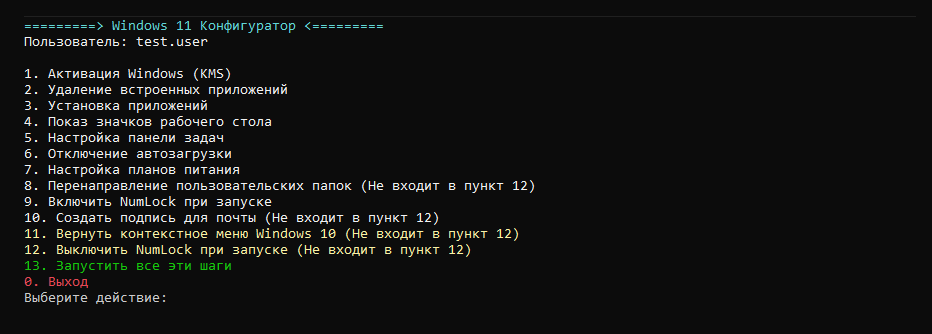
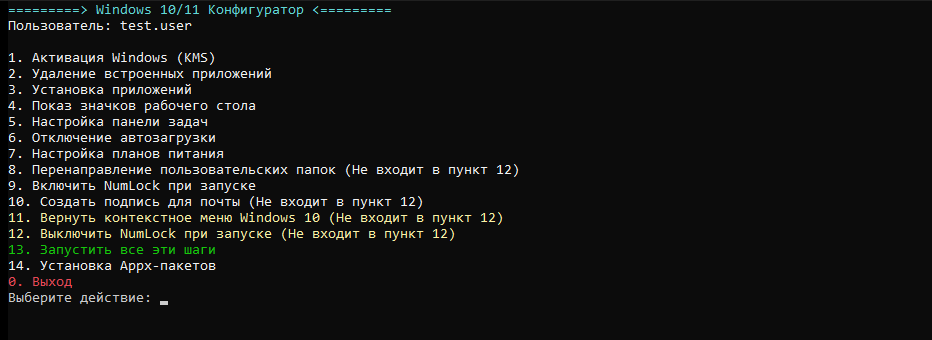
docs: refresh menu screenshots for Appx
Capture the updated Windows 10/11 menu, installation submenu and new Appx submenu in TestMode; add the Appx screenshot to the README and bump config/module to 2.1.20.

Changed region(s): [[0.0, 0.1198, 0.5912, 0.9281], [0.0, 0.0, 0.4045, 0.0898]]

diff --git a/docs/configuration.md b/docs/configuration.md
@@ -27,7 +27,7 @@ and the failed rule).
 
 ```json
 "Meta": {
-  "Version": "2.1.19",
+  "Version": "2.1.20",
   "IsTestData": false,
   "Environment": "PROD",
   "CompanyName": "Example Company",
@@ -356,7 +356,7 @@ Placeholders are filled from AD data; fallbacks are used for empty attributes.
   "RestartExplorer": true
 },
 "Menu": {
-  "Title": "Windows 11 Configurator",
+  "Title": "Windows 10/11 Configurator",
   "ExitChoice": "0",
   "RunAllLabel": "Run all these steps",
   "ContinuePrompt": "Press Enter to continue",

diff --git a/docs/CHANGELOG.md b/docs/CHANGELOG.md
@@ -4,6 +4,14 @@ All notable changes to WindowsConfigurator are documented here. The format is
 based on [Keep a Changelog](https://keepachangelog.com/en/1.1.0/) and the
 project follows [Semantic Versioning](https://semver.org/).
 
+## [2.1.20] - 2026-11-12
+
+### Changed
+
+- Menu title is now `Windows 10/11 Конфигуратор`.
+- Refreshed the main-menu and installation screenshots and added an Appx
+  submenu screenshot.
+
 ## [2.1.19] - 2026-11-12
 
 ### Changed

diff --git a/docs/README.md b/docs/README.md
@@ -74,6 +74,10 @@ Application installation submenu; `X`, `Q` or `Enter` returns to the main menu:
 
 ![Installation submenu](screenshots/install-submenu.png)
 
+Appx/MSIX submenu; dependencies are installed before the selected package:
+
+![Appx submenu](screenshots/appx-submenu.png)
+
 ## Configuration
 
 The shipped `config/config.json` is a **test** configuration with placeholders
